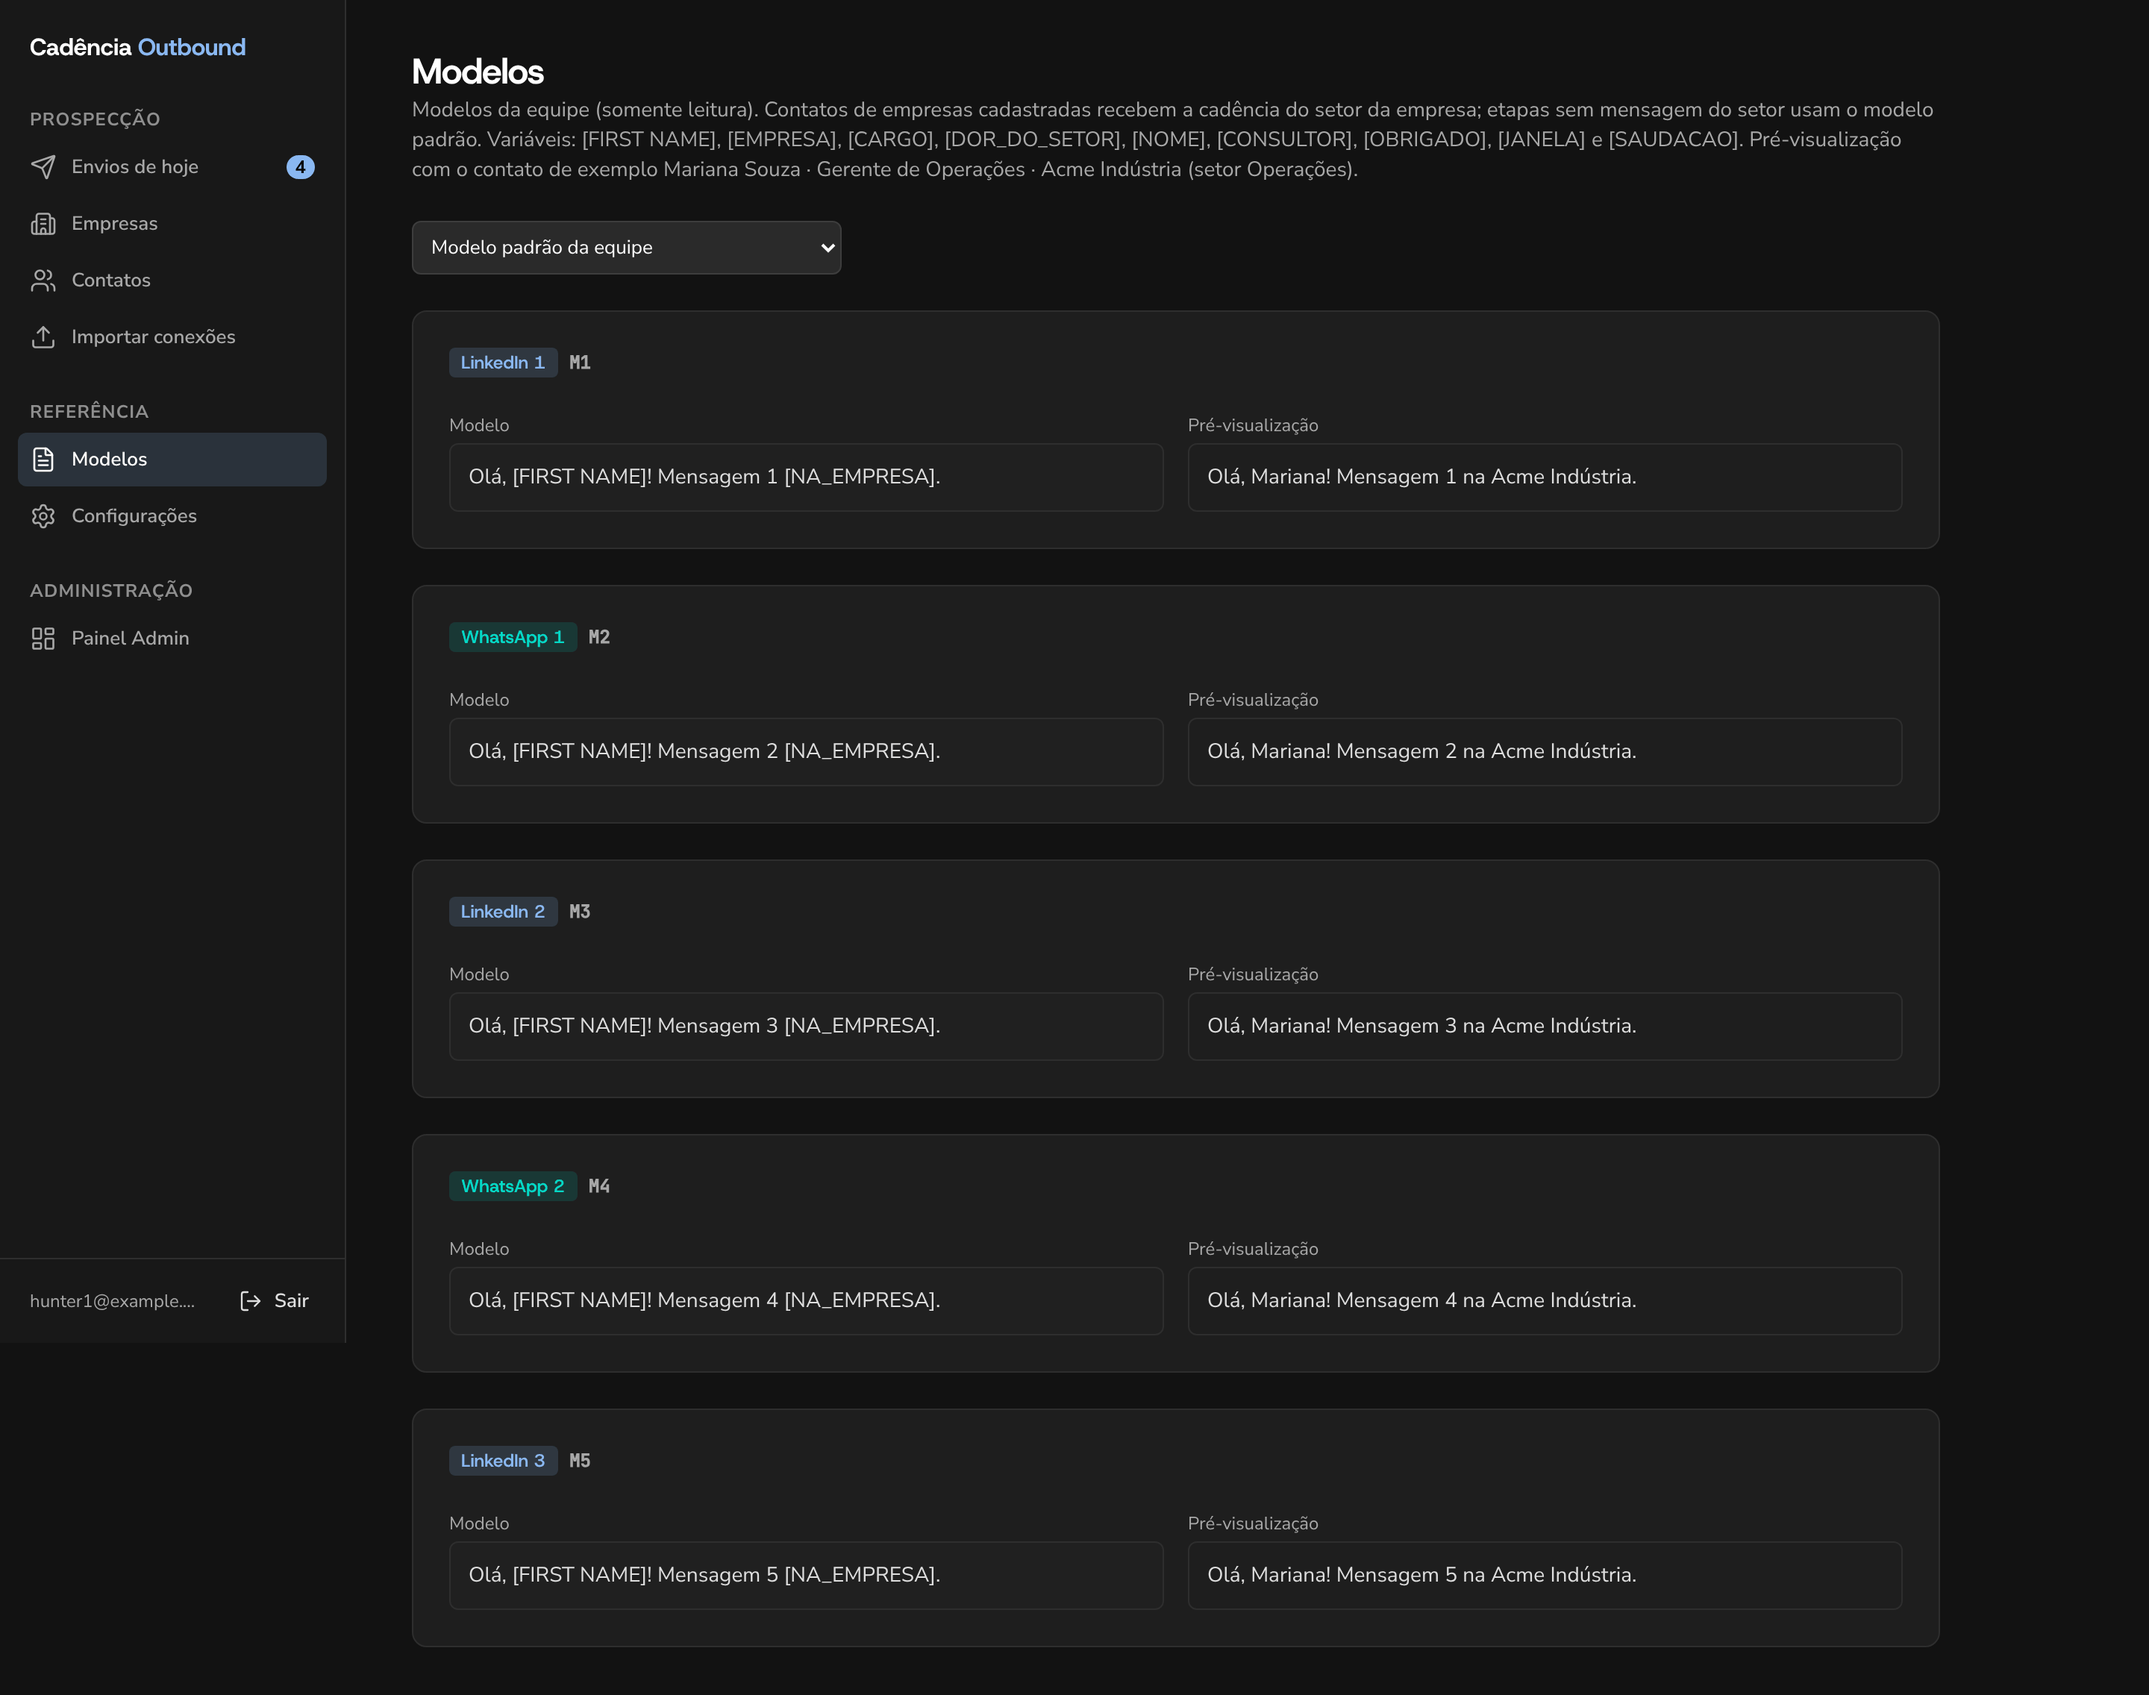
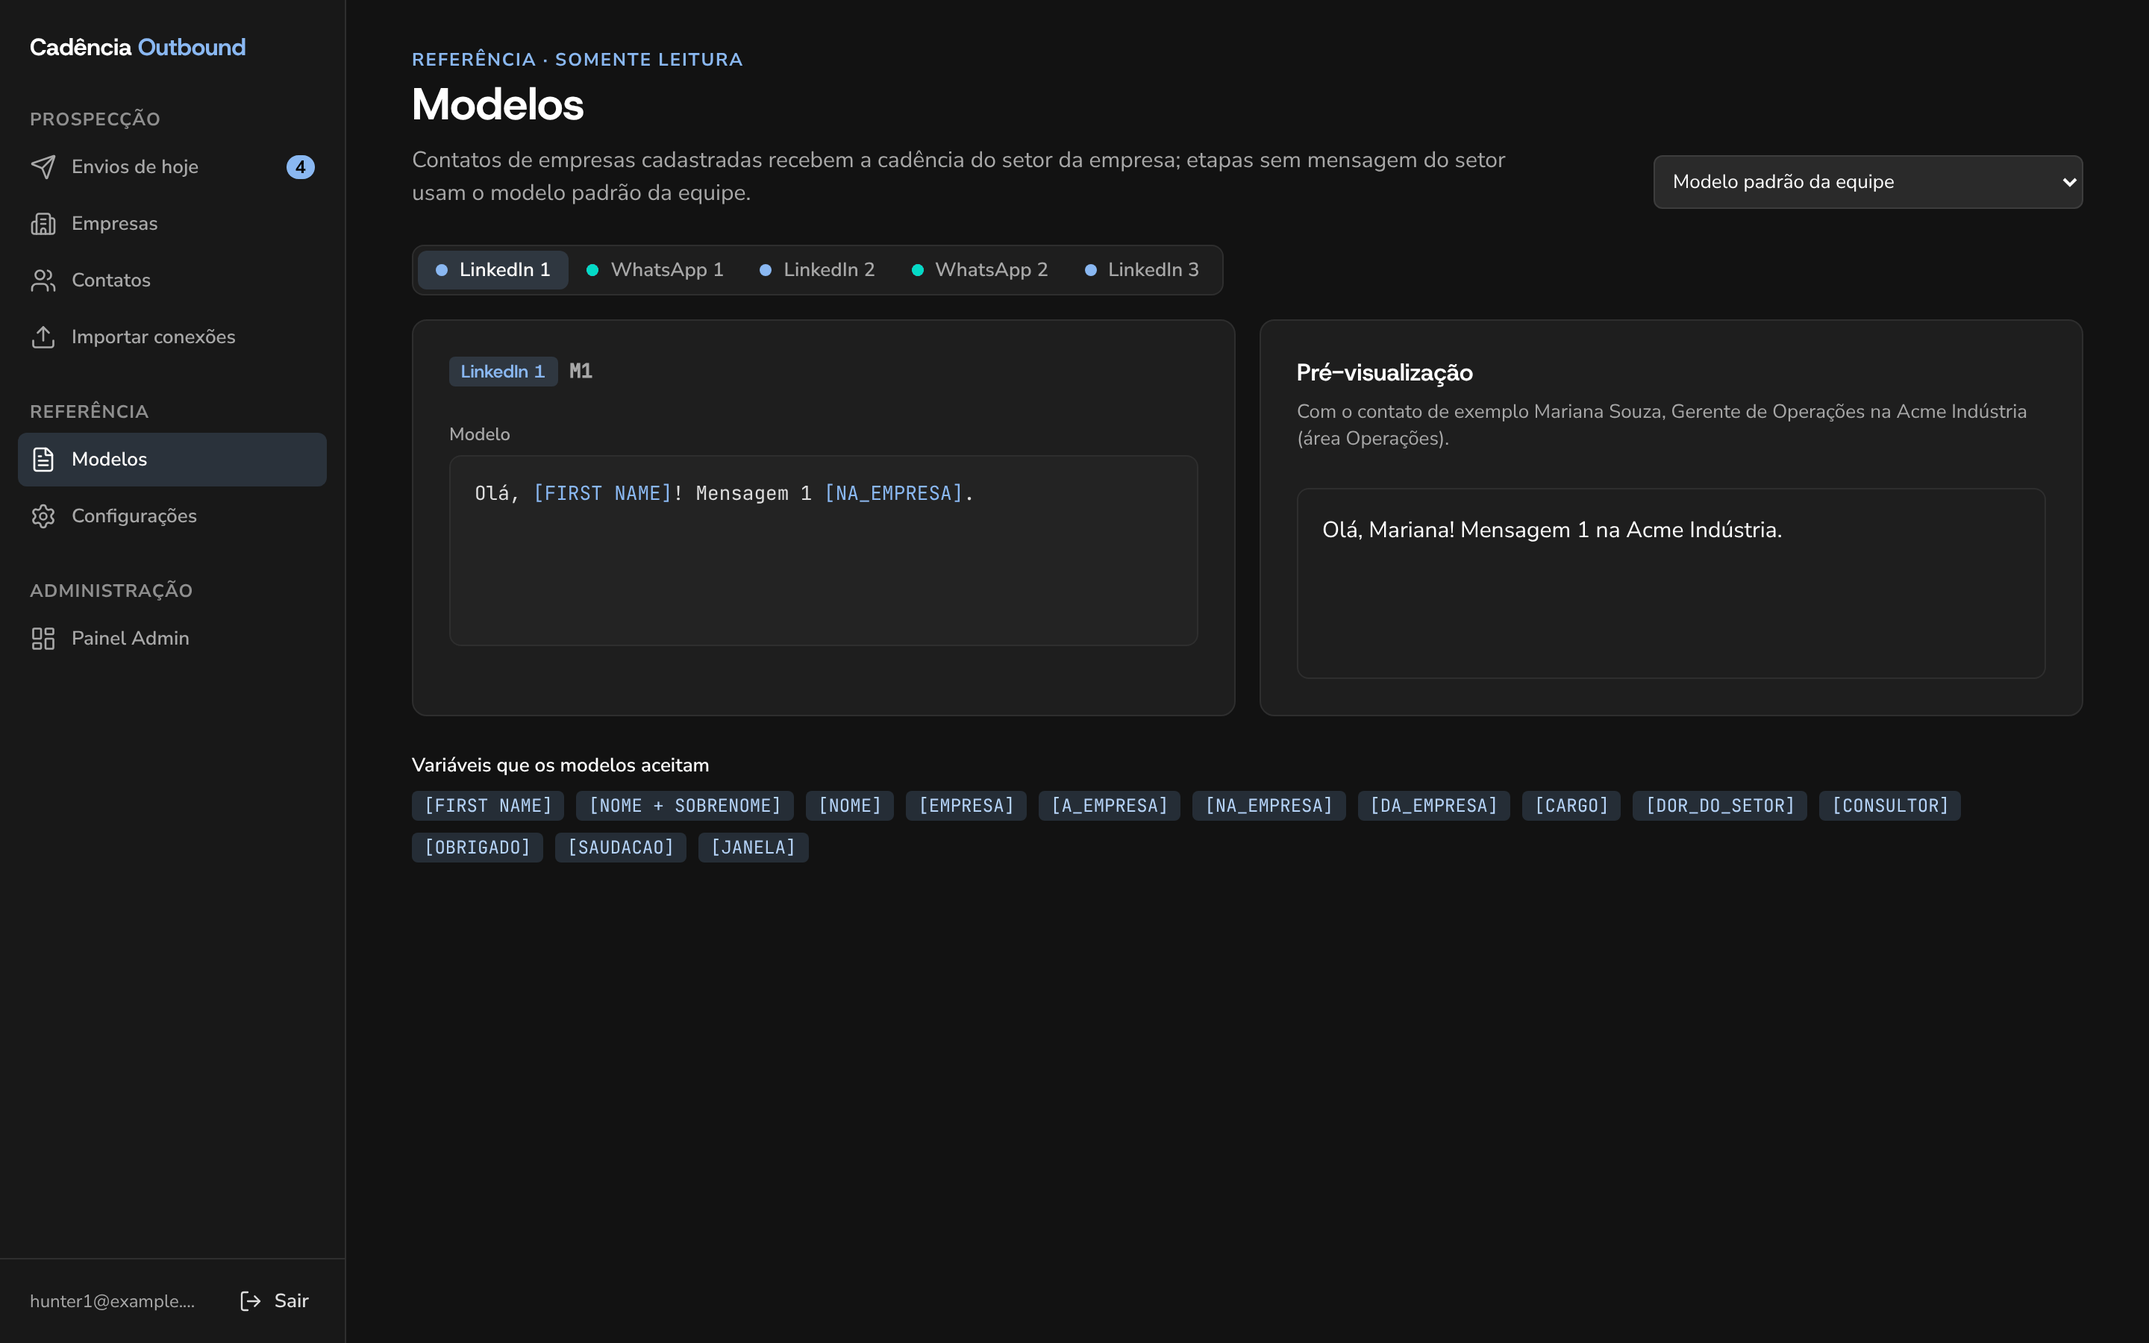
feat(ui): redesenha Modelos com uma aba por etapa
Modelos passa a mostrar uma aba por etapa de STEPS (com o ponto da cor do
canal e, numa cadência de setor, se a etapa é própria ou usa o padrão),
o modelo com as variáveis destacadas e a pré-visualização ao lado. A
lista de variáveis vira selos e passa a ser exatamente a que
renderTemplate substitui (faltavam [NOME + SOBRENOME], [A_EMPRESA] e
[DA_EMPRESA]). Os componentes vão para src/components/modelos/. A tela
não tinha teste de ponta a ponta; agora tem dois.

Claude-Session: https://claude.ai/code/session_0137A672FZVr8kUgR711yTZV

diff --git a/src/routes/_authenticated/modelos.tsx b/src/routes/_authenticated/modelos.tsx
@@ -4,8 +4,9 @@ import { NativeSelect } from "@/components/ui/native-select";
 import { useProfile, useSectorTemplates, useSectors, useTemplates } from "@/hooks/useCadencia";
 import { STEPS, renderTemplate } from "@/lib/cadencia";
 import { pickTemplate } from "@/lib/fila";
-import { Card, CardContent, CardHeader, CardTitle } from "@/components/ui/card";
-import { ChannelBadge } from "@/components/StatusBadge";
+import { Tabs, TabsContent, TabsList, TabsTrigger } from "@/components/ui/tabs";
+import { cn } from "@/lib/utils";
+import { EXEMPLO, ModeloEtapa, VARIAVEIS } from "@/components/modelos/ModeloEtapa";
 
 export const Route = createFileRoute("/_authenticated/modelos")({
   head: () => ({
@@ -27,83 +28,102 @@ export const Route = createFileRoute("/_authenticated/modelos")({
   component: Modelos,
 });
 
-const EXEMPLO = {
-  name: "Mariana Souza",
-  company: "Acme Indústria",
-  sector: "Operações",
-  job_title: "Gerente de Operações",
-};
-
 function Modelos() {
   const { data: templates } = useTemplates();
   const { data: profile } = useProfile();
   const { data: sectors } = useSectors();
   const { data: sectorTemplates } = useSectorTemplates();
   const [sectorId, setSectorId] = useState("");
+  const [tab, setTab] = useState("1");
   const hunter = {
     name: profile?.message_name?.trim() || profile?.display_name || "Seu Nome",
     gender: (profile?.gender === "f" ? "f" : "m") as "m" | "f",
   };
 
   return (
-    <div className="max-w-5xl space-y-6">
-      <div>
-        <h1 className="text-2xl font-bold tracking-tight">Modelos</h1>
-        <p className="text-sm text-muted-foreground">
-          Modelos da equipe (somente leitura). Contatos de empresas cadastradas recebem a cadência
-          do setor da empresa; etapas sem mensagem do setor usam o modelo padrão. Variáveis: [FIRST
-          NAME], [EMPRESA], [CARGO], [DOR_DO_SETOR], [NOME], [CONSULTOR], [OBRIGADO], [JANELA] e
-          [SAUDACAO]. Pré-visualização com o contato de exemplo {EXEMPLO.name} · {EXEMPLO.job_title}{" "}
-          · {EXEMPLO.company} (setor {EXEMPLO.sector}).
-        </p>
-      </div>
-      <NativeSelect
-        aria-label="Cadência"
-        className="w-72"
-        value={sectorId}
-        onChange={(e) => setSectorId(e.target.value)}
-      >
-        <option value="">Modelo padrão da equipe</option>
-        {(sectors ?? [])
-          .filter((s) => s.active)
-          .map((s) => (
-            <option key={s.id} value={s.id}>
-              Setor: {s.name}
-            </option>
-          ))}
-      </NativeSelect>
-      {STEPS.map((step) => {
-        const t = pickTemplate(step, sectorId || null, sectorTemplates, templates);
-        return (
-          <Card key={step.n}>
-            <CardHeader className="flex-row items-center gap-2">
-              <CardTitle className="flex items-center gap-2 text-base">
-                <ChannelBadge channel={step.channel}>{step.label}</ChannelBadge>
-                <span className="text-xs font-mono text-muted-foreground">{t?.code}</span>
-                {sectorId && t && !t.fromSector && (
-                  <span className="text-xs font-normal text-muted-foreground">
-                    (sem mensagem do setor — modelo padrão)
+    <div className="space-y-6">
+      <header className="flex flex-wrap items-end justify-between gap-4">
+        <div>
+          <p className="eyebrow">Referência · somente leitura</p>
+          <h1 className="mt-1 text-title font-bold">Modelos</h1>
+          <p className="mt-2 max-w-3xl text-body text-muted-foreground">
+            Contatos de empresas cadastradas recebem a cadência do setor da empresa; etapas sem
+            mensagem do setor usam o modelo padrão da equipe.
+          </p>
+        </div>
+        <NativeSelect
+          aria-label="Cadência"
+          className="w-72"
+          value={sectorId}
+          onChange={(e) => setSectorId(e.target.value)}
+        >
+          <option value="">Modelo padrão da equipe</option>
+          {(sectors ?? [])
+            .filter((s) => s.active)
+            .map((s) => (
+              <option key={s.id} value={s.id}>
+                Setor: {s.name}
+              </option>
+            ))}
+        </NativeSelect>
+      </header>
+
+      <Tabs value={tab} onValueChange={setTab}>
+        <TabsList className="h-auto flex-wrap">
+          {STEPS.map((step) => {
+            const t = pickTemplate(step, sectorId || null, sectorTemplates, templates);
+            return (
+              <TabsTrigger key={step.n} value={String(step.n)} className="gap-2">
+                <span
+                  aria-hidden
+                  className={cn(
+                    "size-2 rounded-full",
+                    step.channel === "linkedin" ? "bg-linkedin" : "bg-whatsapp",
+                  )}
+                />
+                {step.label}
+                {sectorId && t && (
+                  <span
+                    className={cn(
+                      "text-caption font-semibold",
+                      t.fromSector ? "text-success" : "text-subtle-foreground",
+                    )}
+                  >
+                    {t.fromSector ? "própria" : "padrão"}
                   </span>
                 )}
-              </CardTitle>
-            </CardHeader>
-            <CardContent className="grid gap-4 md:grid-cols-2">
-              <div>
-                <p className="mb-1 text-xs font-medium text-muted-foreground">Modelo</p>
-                <div className="whitespace-pre-wrap rounded-md border bg-muted/40 p-3 text-sm">
-                  {t?.body ?? "Carregando..."}
-                </div>
-              </div>
-              <div>
-                <p className="mb-1 text-xs font-medium text-muted-foreground">Pré-visualização</p>
-                <div className="whitespace-pre-wrap rounded-md border bg-card p-3 text-sm">
-                  {t ? renderTemplate(t.body, EXEMPLO, hunter) : ""}
-                </div>
-              </div>
-            </CardContent>
-          </Card>
-        );
-      })}
+              </TabsTrigger>
+            );
+          })}
+        </TabsList>
+        {STEPS.map((step) => {
+          const t = pickTemplate(step, sectorId || null, sectorTemplates, templates);
+          return (
+            <TabsContent key={step.n} value={String(step.n)}>
+              <ModeloEtapa
+                step={step}
+                template={t}
+                sectorChosen={!!sectorId}
+                preview={t ? renderTemplate(t.body, EXEMPLO, hunter) : ""}
+              />
+            </TabsContent>
+          );
+        })}
+      </Tabs>
+
+      <section aria-label="Variáveis" className="space-y-2">
+        <p className="text-dense font-semibold text-heading">Variáveis que os modelos aceitam</p>
+        <div className="flex flex-wrap gap-2">
+          {VARIAVEIS.map((v) => (
+            <code
+              key={v}
+              className="rounded-sm bg-primary-soft px-2 py-0.5 font-mono text-caption text-primary-text-strong"
+            >
+              {v}
+            </code>
+          ))}
+        </div>
+      </section>
     </div>
   );
 }

diff --git a/src/components/modelos/ModeloEtapa.tsx b/src/components/modelos/ModeloEtapa.tsx
@@ -1,0 +1,99 @@
+import { ChannelBadge } from "@/components/StatusBadge";
+import { Card, CardContent, CardHeader, CardTitle } from "@/components/ui/card";
+import type { StepDef } from "@/lib/cadencia";
+
+/** Contato fictício usado na pré-visualização dos modelos. */
+export const EXEMPLO = {
+  name: "Mariana Souza",
+  company: "Acme Indústria",
+  sector: "Operações",
+  job_title: "Gerente de Operações",
+};
+
+/** Variáveis que os modelos aceitam: as mesmas que renderTemplate (cadencia.ts) substitui. */
+export const VARIAVEIS = [
+  "[FIRST NAME]",
+  "[NOME + SOBRENOME]",
+  "[NOME]",
+  "[EMPRESA]",
+  "[A_EMPRESA]",
+  "[NA_EMPRESA]",
+  "[DA_EMPRESA]",
+  "[CARGO]",
+  "[DOR_DO_SETOR]",
+  "[CONSULTOR]",
+  "[OBRIGADO]",
+  "[SAUDACAO]",
+  "[JANELA]",
+];
+
+/** Uma etapa da cadência: o modelo (com as variáveis destacadas) e a pré-visualização ao lado. */
+export function ModeloEtapa({
+  step,
+  template: t,
+  sectorChosen,
+  preview,
+}: {
+  step: StepDef;
+  template: { code: string; body: string; fromSector: boolean } | null | undefined;
+  /** Uma cadência de setor está escolhida (mostra quando a etapa cai no modelo padrão). */
+  sectorChosen: boolean;
+  preview: string;
+}) {
+  return (
+    <div className="grid grid-cols-2 gap-4">
+      <Card>
+        <CardHeader className="flex-row items-center justify-between space-y-0">
+          <CardTitle className="flex items-center gap-2">
+            <ChannelBadge channel={step.channel}>{step.label}</ChannelBadge>
+            <span className="font-mono text-dense text-muted-foreground">{t?.code}</span>
+          </CardTitle>
+          {sectorChosen && t && !t.fromSector && (
+            <span className="text-caption text-subtle-foreground">
+              sem mensagem do setor: usa o modelo padrão
+            </span>
+          )}
+        </CardHeader>
+        <CardContent>
+          <p className="mb-1.5 text-caption font-semibold text-muted-foreground">Modelo</p>
+          <div
+            aria-label={`Modelo ${step.label}`}
+            className="min-h-32 rounded-lg border bg-surface-inset p-4 font-mono text-dense whitespace-pre-wrap"
+          >
+            {t ? <ComVariaveis texto={t.body} /> : "Carregando…"}
+          </div>
+        </CardContent>
+      </Card>
+      <Card>
+        <CardHeader>
+          <CardTitle>Pré-visualização</CardTitle>
+          <p className="text-dense text-muted-foreground">
+            Com o contato de exemplo {EXEMPLO.name}, {EXEMPLO.job_title} na {EXEMPLO.company} (área{" "}
+            {EXEMPLO.sector}).
+          </p>
+        </CardHeader>
+        <CardContent>
+          <div
+            aria-label={`Pré-visualização ${step.label}`}
+            className="min-h-32 rounded-lg border bg-card p-4 text-body whitespace-pre-wrap text-heading"
+          >
+            {t ? preview : ""}
+          </div>
+        </CardContent>
+      </Card>
+    </div>
+  );
+}
+
+/** Texto do modelo com as variáveis ([FIRST NAME], [EMPRESA]...) destacadas. */
+function ComVariaveis({ texto }: { texto: string }) {
+  return texto.split(/(\[[A-Z_ +]+\])/).map((parte, i) =>
+    /^\[[A-Z_ +]+\]$/.test(parte) ? (
+      <span key={i} className="text-primary">
+        {parte}
+      </span>
+    ) : (
+      parte
+    ),
+  );
+}

diff --git a/e2e/modelos.spec.ts b/e2e/modelos.spec.ts
@@ -1,0 +1,30 @@
+import { expect, test } from "./helpers";
+
+test.describe("Modelos", () => {
+  test("mostra o modelo de cada etapa com a pré-visualização ao lado", async ({ page }) => {
+    await page.goto("/modelos");
+    await expect(page.getByRole("heading", { name: "Modelos", level: 1 })).toBeVisible();
+    await expect(page.getByLabel("Modelo LinkedIn 1")).toContainText(
+      "Olá, [FIRST NAME]! Mensagem 1 [NA_EMPRESA].",
+    );
+    await expect(page.getByLabel("Pré-visualização LinkedIn 1")).toContainText(
+      "Olá, Mariana! Mensagem 1 na Acme Indústria.",
+    );
+    await page.getByRole("tab", { name: /^WhatsApp 2/ }).click();
+    await expect(page.getByLabel("Modelo WhatsApp 2")).toContainText("Mensagem 4");
+  });
+
+  test("na cadência de um setor, marca as etapas próprias e as que usam o padrão", async ({
+    page,
+  }) => {
+    await page.goto("/modelos");
+    await page.getByRole("combobox", { name: "Cadência" }).selectOption({ label: "Setor: Varejo" });
+    // O Varejo só tem mensagem própria no WhatsApp 2.
+    await expect(page.getByRole("tab", { name: /^WhatsApp 2/ })).toContainText("própria");
+    await expect(page.getByRole("tab", { name: /^LinkedIn 1/ })).toContainText("padrão");
+    await expect(page.getByText("sem mensagem do setor: usa o modelo padrão")).toBeVisible();
+    await page.getByRole("tab", { name: /^WhatsApp 2/ }).click();
+    await expect(page.getByLabel("Modelo WhatsApp 2")).toContainText("Cadência do varejo");
+    await expect(page.getByText("VAR4")).toBeVisible();
+  });
+});

diff --git a/AGENTS.md b/AGENTS.md
@@ -62,8 +62,8 @@ Métrica-guia: reuniões (ATs) marcadas a cada semana.
 ## Organização do código
 
 - Rotas em `src/routes/` são finas: estado da tela e composição. Componentes de uma tela ficam
-  em `src/components/<tela>/` (`configuracoes`, `contatos`, `empresas`, `hoje`, `importar`, `ranking`,
-  `painel`); componentes usados em
+  em `src/components/<tela>/` (`configuracoes`, `contatos`, `empresas`, `hoje`, `importar`, `modelos`,
+  `ranking`, `painel`); componentes usados em
   mais de uma tela ficam na raiz de `src/components/` (ex.: `SectorSelect`, `InlineInput`,
   `Funnel`); `src/components/ui/` é o shadcn/ui.
 - Regras puras de cada tela ficam em `src/lib/<tela>.ts` (`contatos.ts`, `empresas.ts`, `fila.ts`,
